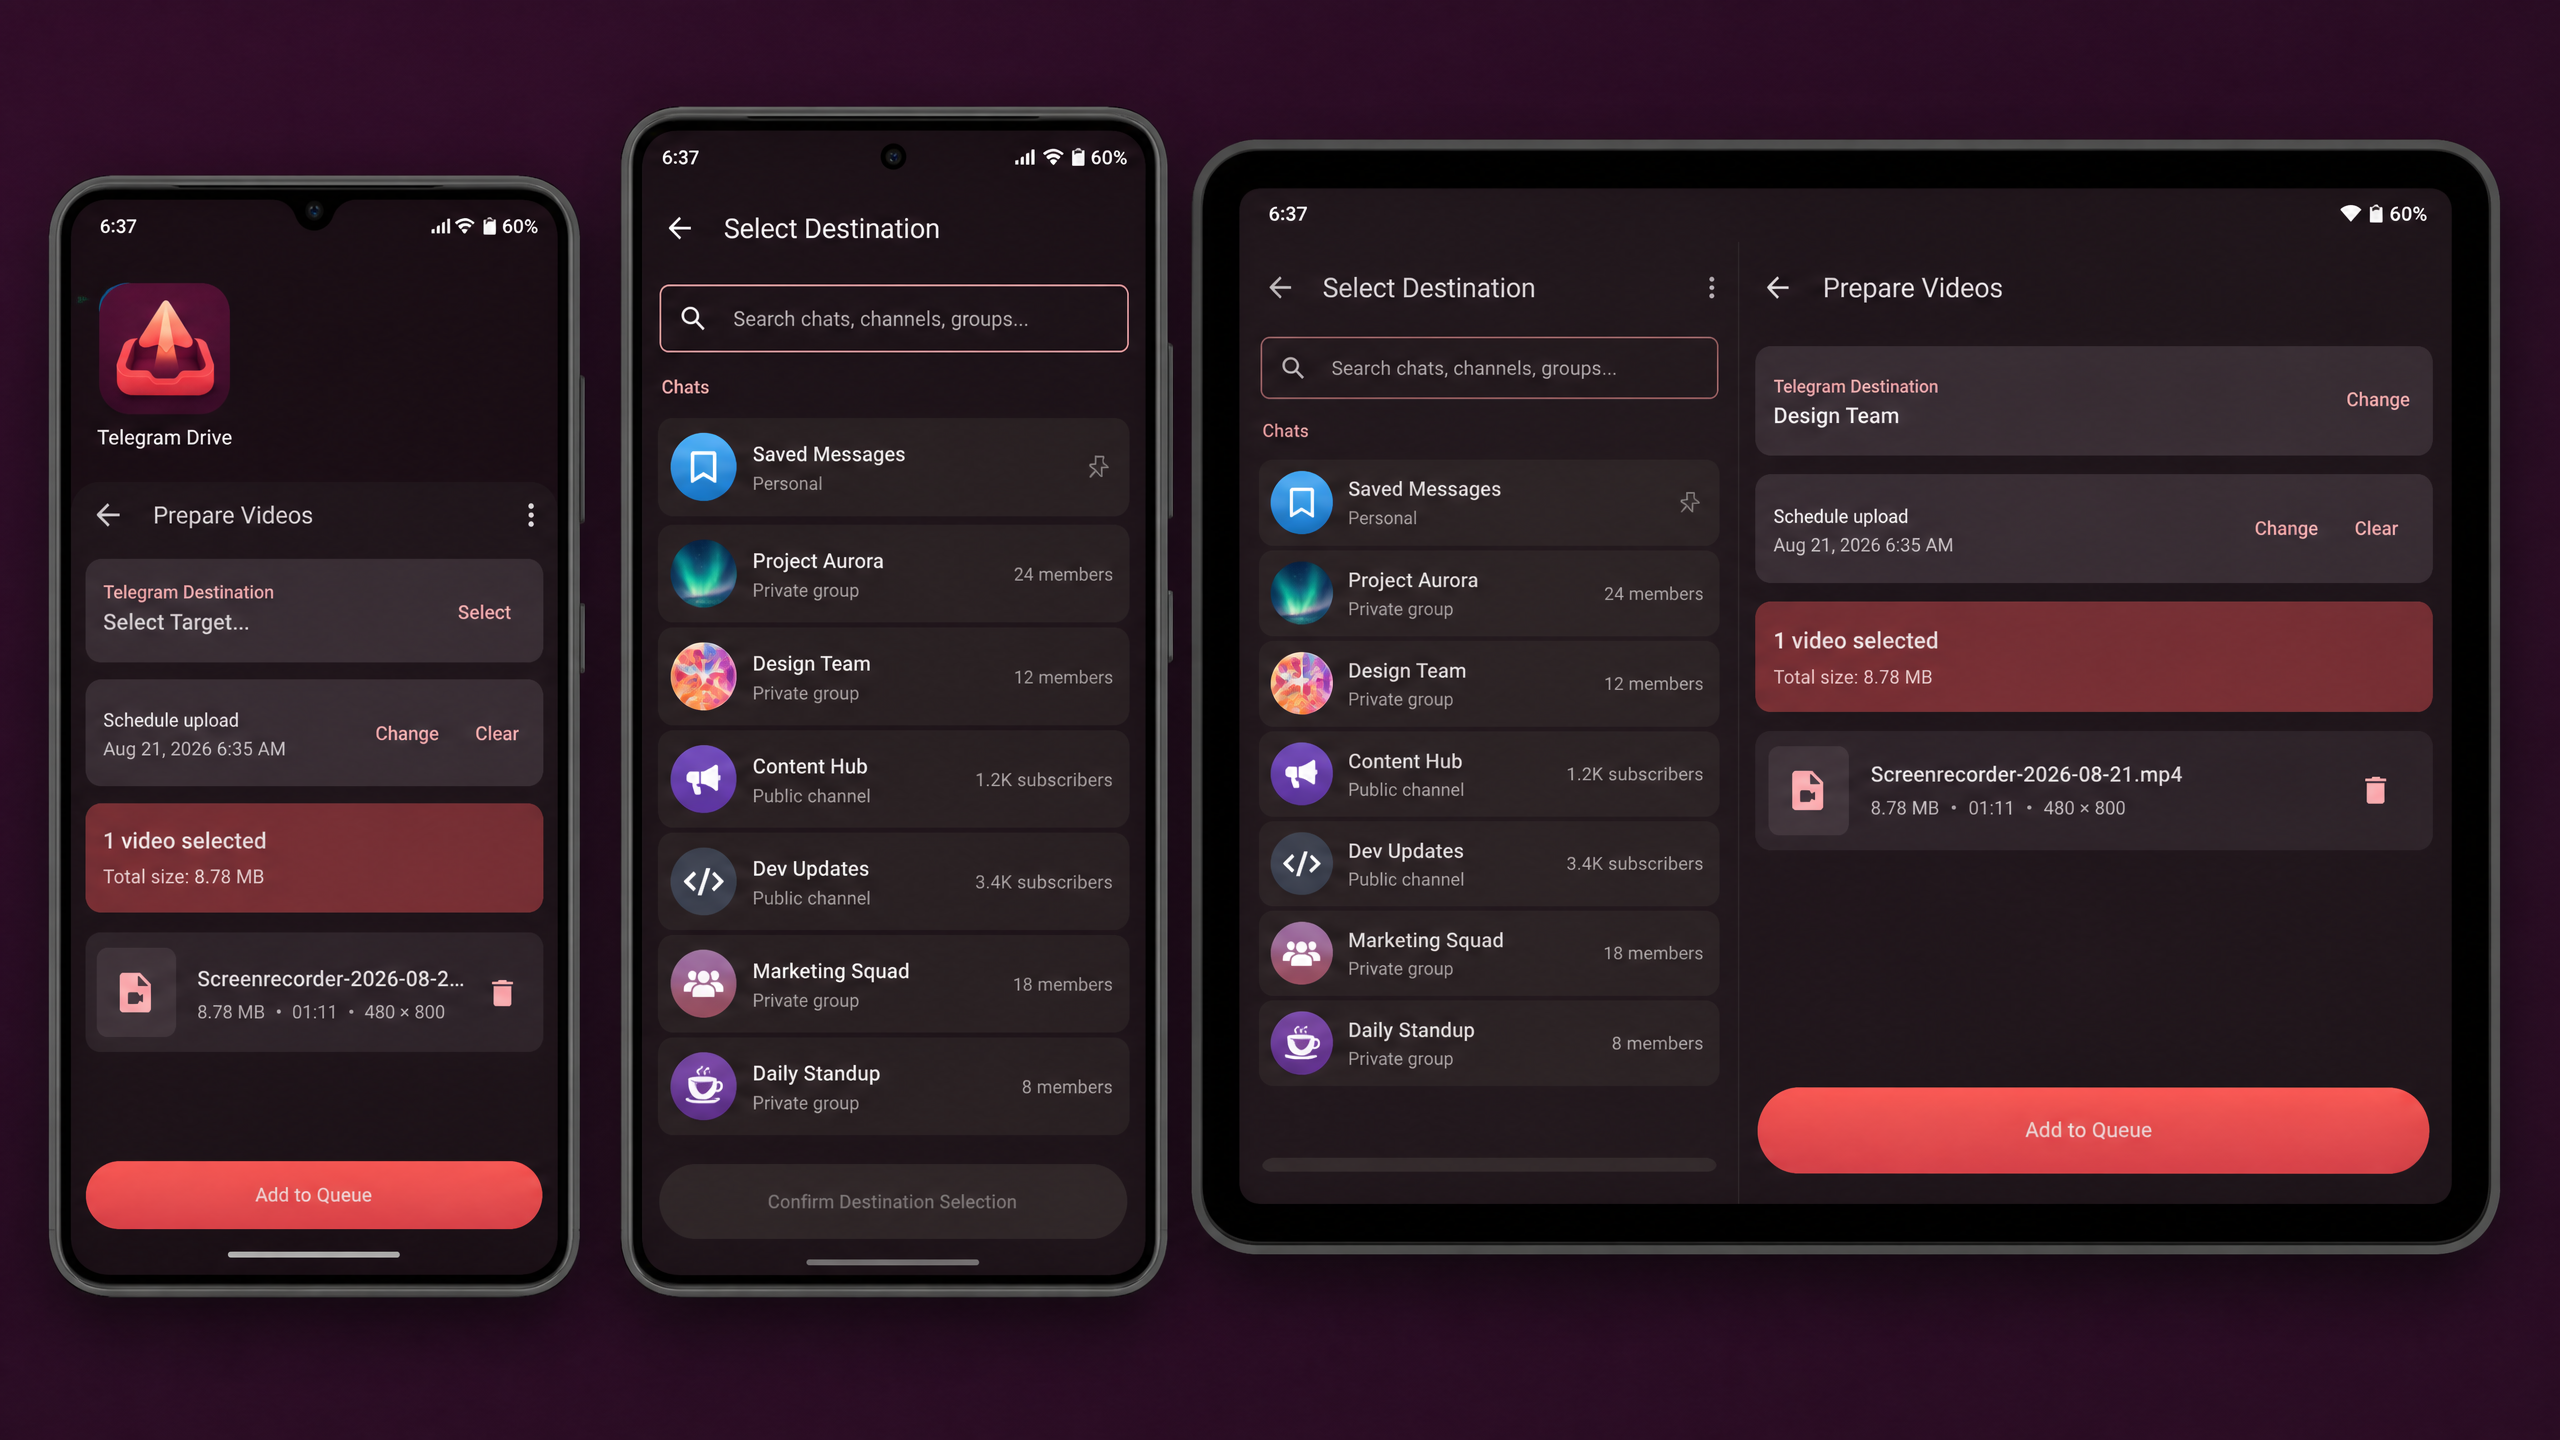
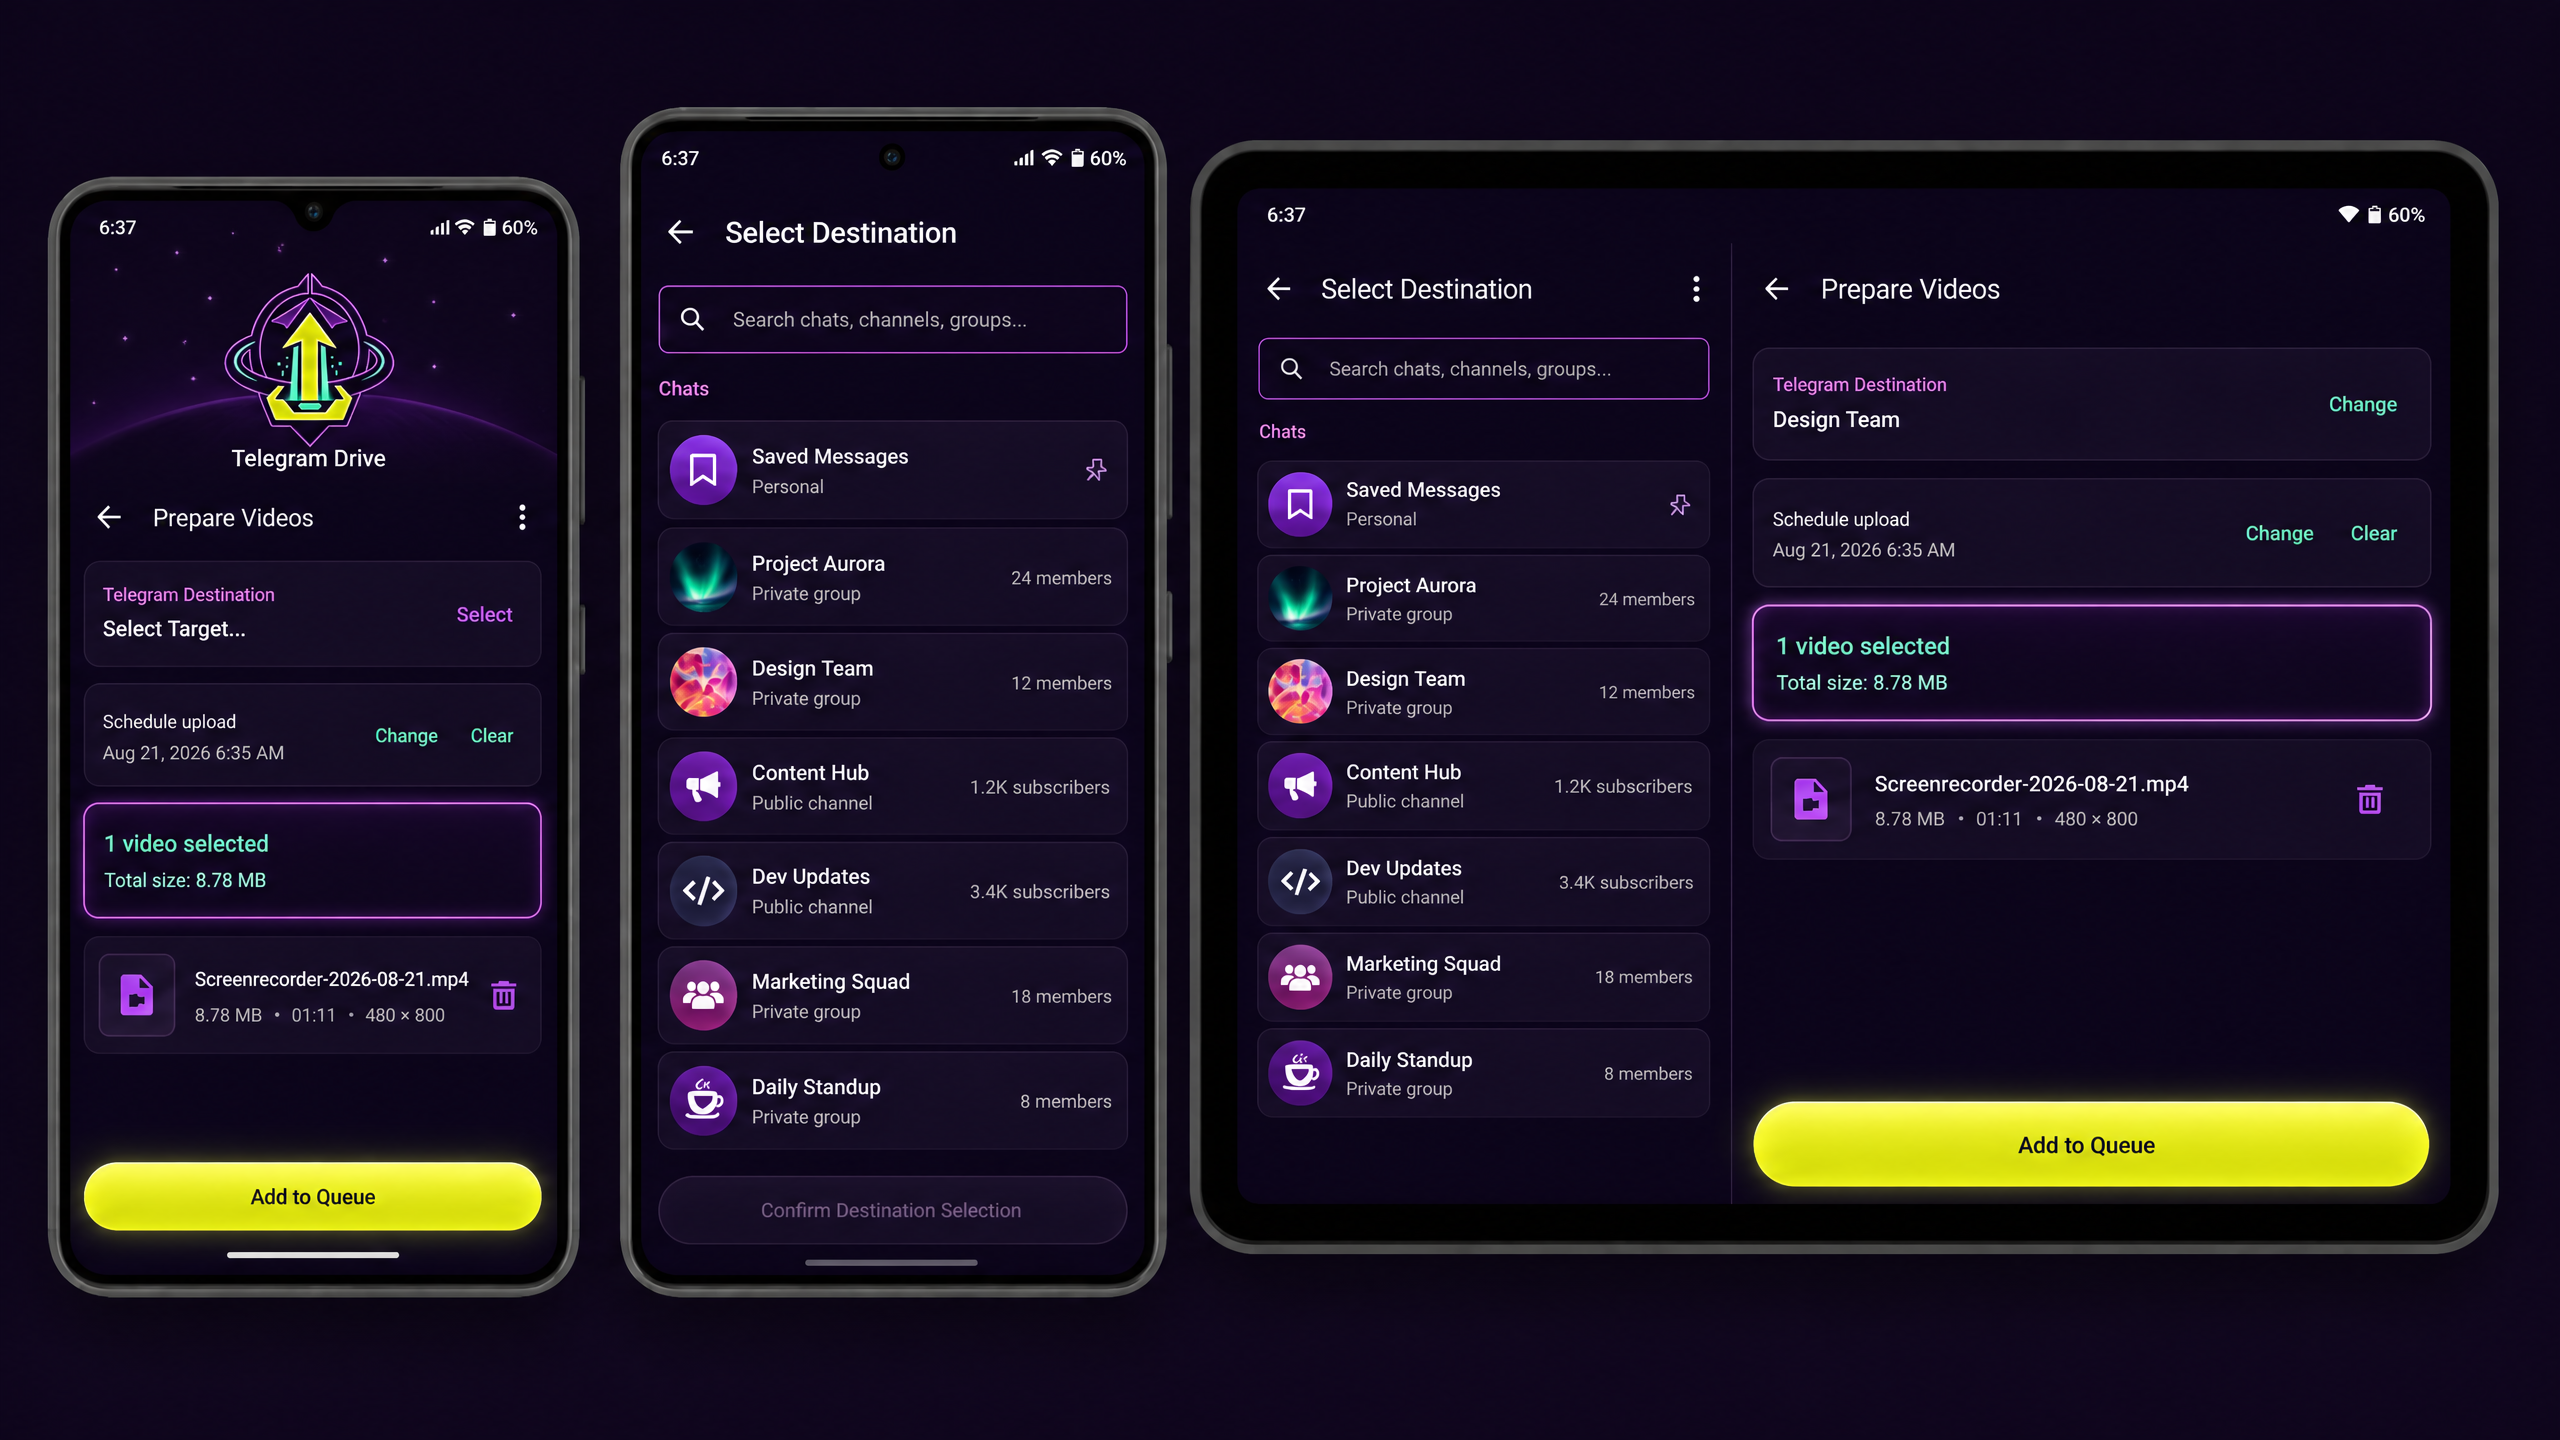
fix: refresh all repository product imagery

diff --git a/docs/operations/COMPLETE_IMAGE_AUDIT.md b/docs/operations/COMPLETE_IMAGE_AUDIT.md
@@ -1,0 +1,7 @@
+# Complete repository image audit
+
+The tracked image inventory contains the updated Mission Control logo, density-specific launcher WebP fallbacks, the updated `design/app_icon_concept.png`, and `design/multi_device_ui_preview.png`.
+
+Visual review found that `design/app_icon_concept.png` already shows the updated orbital Mission Control logo. The remaining `design/multi_device_ui_preview.png` is still an older interface composite: its phone launcher tile uses the former coral upload icon, its primary actions use coral/red styling, and the screen labels and layout reflect the earlier visual direction rather than the current Mission Control dashboard.
+
+The correction was completed by regenerating the multi-device preview with the updated Mission Control logo and current plum/violet/lime/mint visual system. The launcher WebP files and design icon already represent the updated logo and were retained. Native/build-directory images are not repository product assets and remain outside the replacement scope.

diff --git a/todo.md b/todo.md
@@ -900,3 +900,10 @@
 - [x] Audit repository images and all references to identify the obsolete asset.
 - [x] Remove the obsolete image and install the updated Mission Control logo in its intended locations.
 - [x] Verify references, commit, and push the image replacement.
+
+
+## Complete remaining-image replacement
+
+- [x] Inventory every remaining tracked image, mockup, screenshot, launcher fallback, and README/documentation reference.
+- [x] Replace all confirmed outdated visual assets with the current Mission Control branding or remove obsolete assets where no longer needed.
+- [x] Verify every image reference, rebuild the Android package, and push the complete correction.
